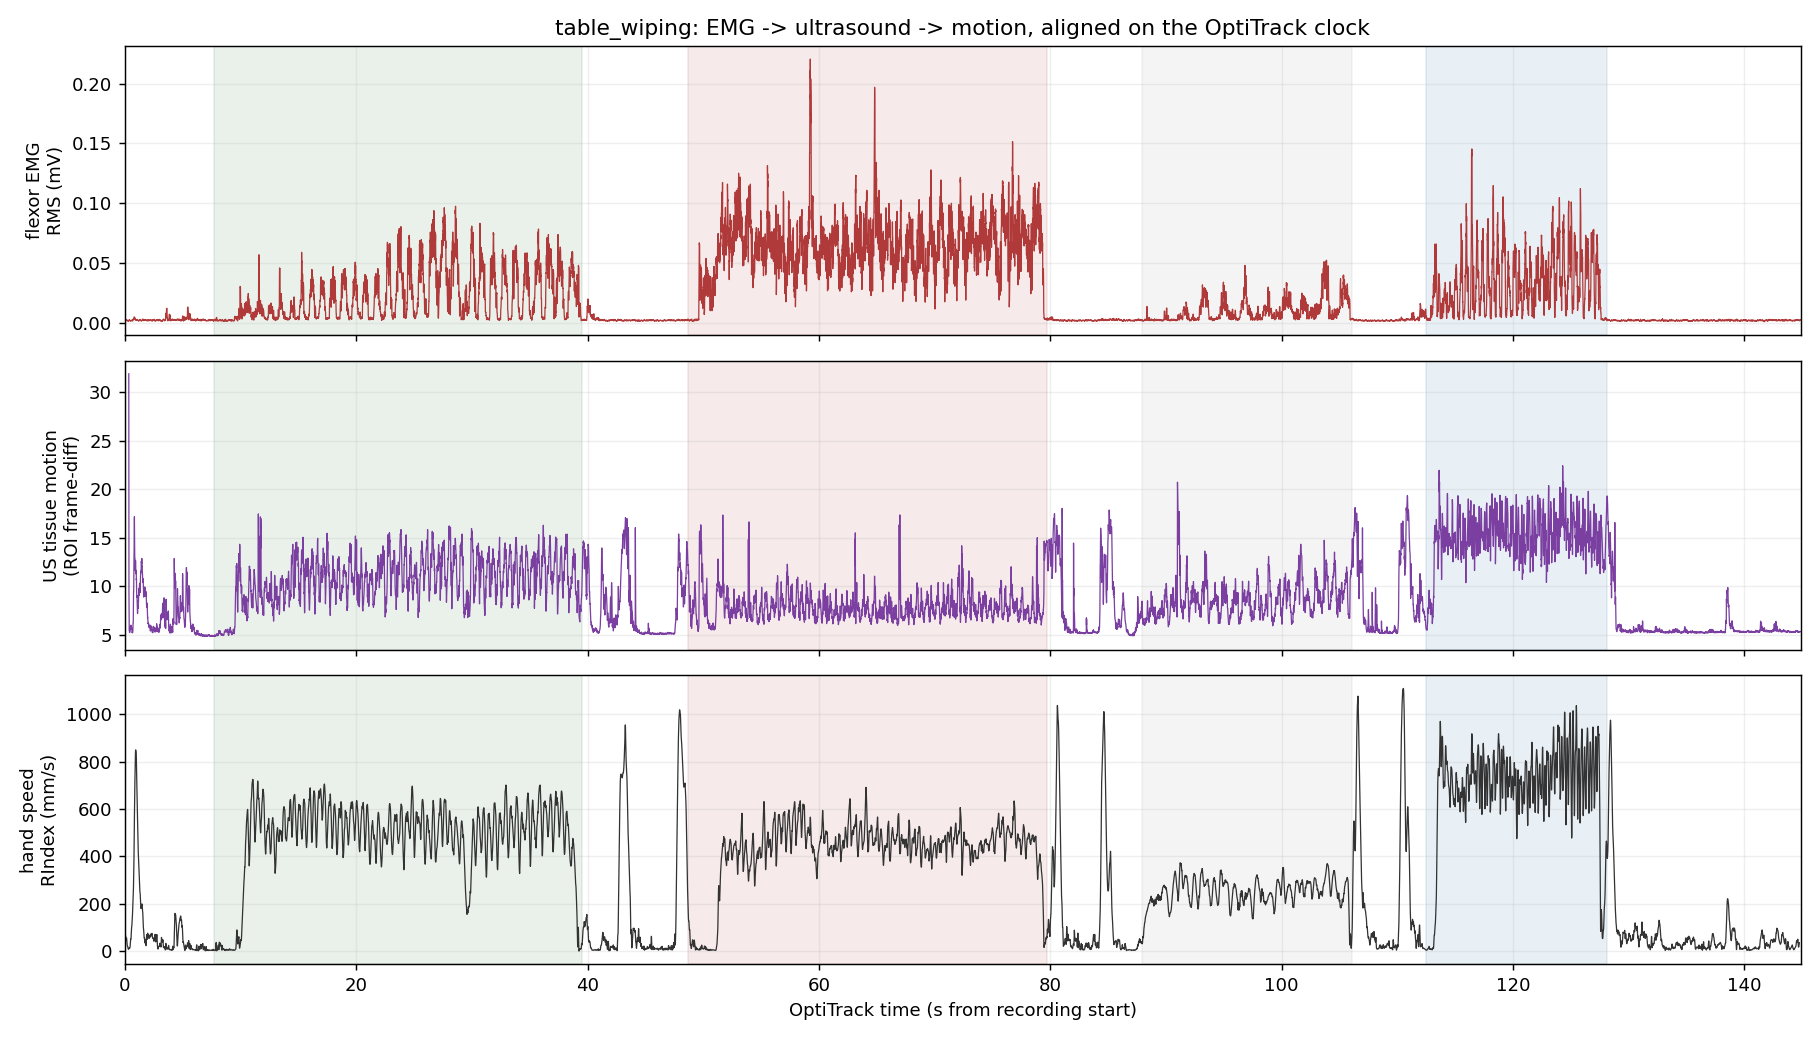
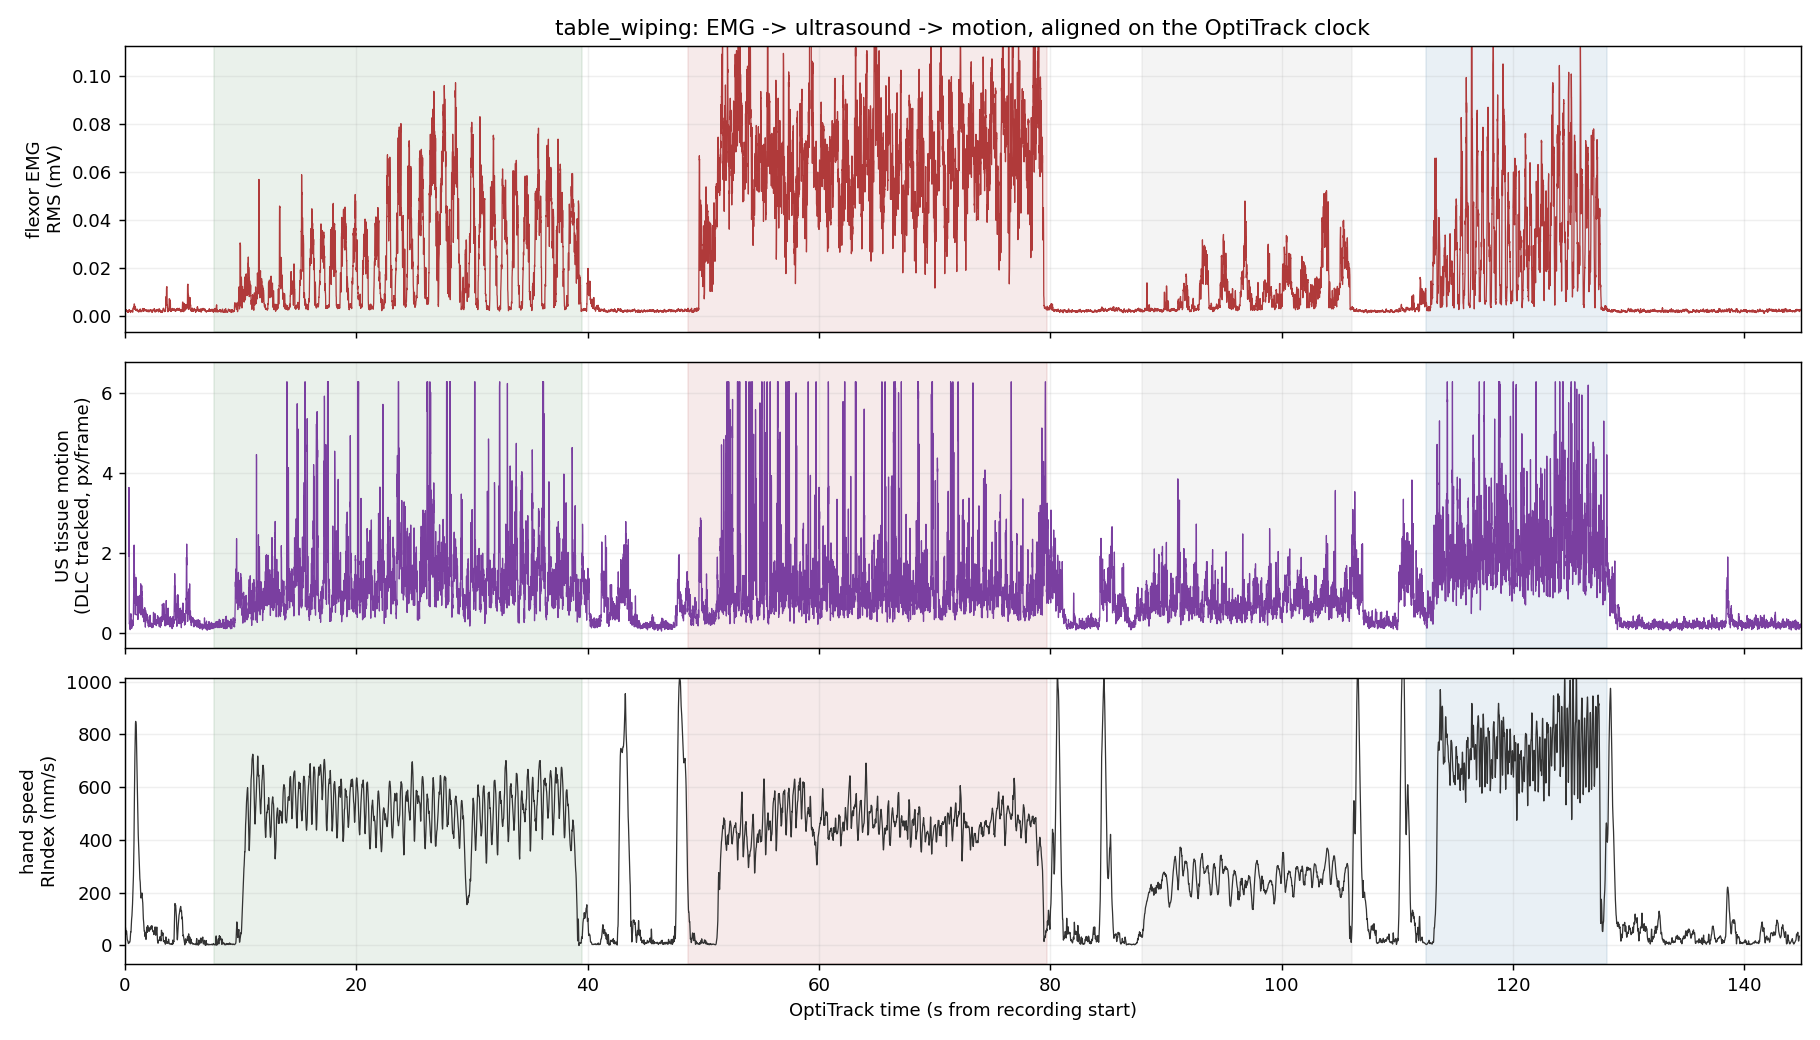
tracking: consume DLC tissue tracking; reveal/contrasts/bundle use it
Consume Praneeth's DLC output (2 points @ ~0.97 likelihood, 19366 frames == n
c-spikes -> 1:1 frame alignment). analysis.us_tracked_motion = mean per-frame
tracked-point speed (clipped at p99 to tame DLC jumps); _signals auto-prefers
'tracked' over the frame-diff proxy. Reveal + contrasts regenerated from tracked
tissue motion (the zoom now reads as a clean EMG->tissue->hand cascade; windowed
y-scaling). bundle adds /us/motion_tracked + /us/track/{point0,point1}; Day-1
notebook prefers tracked motion + exposes the track points. preprocess gains the
DLC_TRACKED_H5 path constant.

diff --git a/ilpemis/analysis.py b/ilpemis/analysis.py
@@ -55,8 +55,31 @@ def us_motion_energy(mp4=None, roi_depth=US_ROI_DEPTH, cache=True):
     return mot
 
 
-def _signals(out_dir=None):
-    """Assemble the three OT-clock signals for the reveal: flexor EMG, US motion, hand speed."""
+def us_tracked_motion(dlc_h5=None, smooth=3):
+    """Per-frame tracked tissue speed (px/frame) from the DLC output: mean over bodyparts
+    of the frame-to-frame displacement magnitude. Length == n frames == n c-spikes."""
+    import pandas as pd
+    dlc_h5 = dlc_h5 or pp.DLC_TRACKED_H5
+    df = pd.read_hdf(dlc_h5)
+    sc = df.columns.get_level_values(0)[0]
+    bps = list(dict.fromkeys(df.columns.get_level_values("bodyparts")))
+    speeds = []
+    for bp in bps:
+        x = df[(sc, bp, "x")].to_numpy(float)
+        y = df[(sc, bp, "y")].to_numpy(float)
+        sp = np.r_[0.0, np.hypot(np.diff(x), np.diff(y))]
+        speeds.append(sp)
+    v = np.mean(speeds, axis=0)
+    if smooth and smooth > 1:                         # light moving-average to tame px jitter
+        k = np.ones(smooth) / smooth
+        v = np.convolve(v, k, mode="same")
+    v = np.clip(v, 0, np.nanpercentile(v, 99))        # tame occasional DLC tracking jumps
+    return v
+
+
+def _signals(out_dir=None, us_source="auto"):
+    """Assemble the three OT-clock signals for the reveal: flexor EMG, US motion, hand speed.
+    ``us_source`` 'tracked' (DLC) / 'proxy' (frame-diff) / 'auto' (tracked if available)."""
     r = pp.run(out_dir or pp.WORKDIR)
     d2ot = r["d2ot"]
     flex = r["emg_envelopes"]["RForearmFlexors"]
@@ -64,12 +87,17 @@ def _signals(out_dir=None):
     fe_t, fe_v = np.asarray(d2ot(flex.t)), np.asarray(flex()).ravel()
     ee_t, ee_v = np.asarray(d2ot(ext.t)), np.asarray(ext()).ravel()
     ht, hv = r["hand"]
-    mot = us_motion_energy()
+    if us_source == "auto":
+        us_source = "tracked" if os.path.exists(pp.DLC_TRACKED_H5) else "proxy"
+    if us_source == "tracked":
+        usv, us_label = us_tracked_motion(), "US tissue motion\n(DLC tracked, px/frame)"
+    else:
+        usv, us_label = us_motion_energy(), "US tissue motion\n(ROI frame-diff)"
     fts = np.asarray(r["us_frame_times_delsys"])
-    m = min(len(mot), len(fts))
-    us_t, us_v = np.asarray(d2ot(fts[:m])), mot[:m]
+    m = min(len(usv), len(fts))
+    us_t, us_v = np.asarray(d2ot(fts[:m])), usv[:m]
     return dict(r=r, flex=(fe_t, fe_v), ext=(ee_t, ee_v), us=(us_t, us_v),
-                hand=(ht, hv), trials_ot=r["trials_ot"])
+                hand=(ht, hv), trials_ot=r["trials_ot"], us_label=us_label, us_source=us_source)
 
 
 def reveal(out_dir=None, zoom=(14.0, 19.0)):
@@ -80,16 +108,22 @@ def reveal(out_dir=None, zoom=(14.0, 19.0)):
     os.makedirs(figdir, exist_ok=True)
     colors = {"Normal": "#3a7d44", "Tensed": "#b03a3a", "Slow": "#999", "Fast": "#2f6f9f"}
     rows = [("flexor EMG\nRMS (mV)", s["flex"], "#b03a3a"),
-            ("US tissue motion\n(ROI frame-diff)", s["us"], "#7a3fa0"),
+            (s["us_label"], s["us"], "#7a3fa0"),
             ("hand speed\nRIndex (mm/s)", s["hand"], "#333333")]
 
     def _draw(xlim, fname, title, shade):
         fig, ax = plt.subplots(3, 1, figsize=(14, 8), sharex=True)
         for a, (lbl, (t, v), c) in zip(ax, rows):
+            t, v = np.asarray(t), np.asarray(v)
             a.plot(t, v, color=c, lw=0.7)
             a.set_ylabel(lbl)
             a.grid(alpha=0.2)
             a.set_xlim(xlim)
+            win = (t >= xlim[0]) & (t <= xlim[1])      # scale y to the visible window
+            if win.any():
+                lo, hi = np.nanpercentile(v[win], [1, 99])
+                pad = 0.08 * (hi - lo + 1e-9)
+                a.set_ylim(lo - pad, hi + pad)
             if shade:
                 for k, (x0, x1) in s["trials_ot"].items():
                     a.axvspan(x0, x1, color=colors.get(k, "#ccc"), alpha=0.10)

diff --git a/ilpemis/bundle.py b/ilpemis/bundle.py
@@ -66,6 +66,21 @@ def build_bundle(out_dir=None):
         ug.create_dataset("frame_times_ot", data=np.asarray(d2ot(fts), float))
         ug.create_dataset("motion_t_ot", data=np.asarray(d2ot(fts[:m]), float))
         ug.create_dataset("motion_proxy", data=mot[:m])
+        # DLC-tracked tissue motion + the raw tracked points, if available (preferred)
+        if os.path.exists(pp.DLC_TRACKED_H5):
+            import pandas as pd
+            trk = analysis.us_tracked_motion()
+            mt = min(len(trk), len(fts))
+            ug.create_dataset("motion_tracked", data=trk[:mt])
+            ug.attrs["motion_primary"] = "tracked"
+            df = pd.read_hdf(pp.DLC_TRACKED_H5)
+            sc = df.columns.get_level_values(0)[0]
+            tg = ug.create_group("track")
+            for bp in dict.fromkeys(df.columns.get_level_values("bodyparts")):
+                tg.create_dataset(bp, data=np.column_stack(
+                    [df[(sc, bp, "x")].to_numpy(float), df[(sc, bp, "y")].to_numpy(float)]))
+        else:
+            ug.attrs["motion_primary"] = "proxy"
 
         sg = h.create_group("segments")
         for k, (a, b) in r["trials_ot"].items():

diff --git a/ilpemis/preprocess.py b/ilpemis/preprocess.py
@@ -55,6 +55,12 @@ TRIAL_TIMES = os.path.join(ROOT, "trial_times.txt")
 WORKDIR = os.path.abspath(os.path.join(os.path.dirname(__file__), "..", "_out"))
 COMFREE_DIR = os.path.join(WORKDIR, "comfree")
 
+#: DLC tracked forearm-tissue output (Praneeth's project; consumed by analysis.us_tracked_motion).
+#: 2 points (point0 ~ stable reference, point1 ~ moving tissue), 19366 frames == n c-spikes.
+DLC_TRACKED_H5 = os.path.join(
+    ROOT, "telemed", "table_wiping-pn-2026-06-26", "videos", "iteration-1",
+    "20260626 141416 PE course table wipingDLC_Resnet50_table_wipingJun26shuffle1_snapshot_320.h5")
+
 #: analog sync sub-channel indices in delsys.Log.analog.split_to_1d()
 CH_OT_GATE = 0          # A
 CH_TELEMED_FRAMES = 1   # B

diff --git a/README.md b/README.md
@@ -71,9 +71,9 @@ pp.extract_us_comfree()             # COM-free .tvd → native-grid mp4 + timing
 - [x] ATEM task-condition snippets (motion-template anchored) + de-hummed audio.
 - [x] EMG→US→motion reveal (proxy) + condition-contrast figures (`figures/`).
 - [x] Portable bundle exporter + Day-1 Colab teaching notebook (`notebooks/`).
-- [ ] DUSTrack tissue tracking (consume the piano-study DLC inference) → sharpen the
-      reveal + contrast US signal from frame-diff proxy to tracked tissue motion.
-- [ ] Day-2 DUSTrack-output notebook; trim + host the take-home bundle (Drive/HF).
+- [x] DUSTrack tissue tracking consumed (DLC, 2 points @ ~0.97 likelihood); reveal +
+      contrasts + bundle now use tracked tissue motion (frame-diff proxy retained as fallback).
+- [ ] Day-2 DUSTrack-workflow notebook; trim + host the take-home bundle (Drive/HF).
 
 ## Modules
 